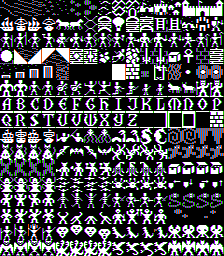
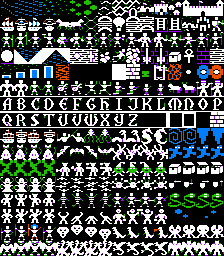
Update ripper algorithms for Apple2 Ultima4. Updates extracted sample .png files. Removes sample .pcx files. Minor tweak to Apple2 Ultima2 when EXPORT_VERTICAL_STRIP is set to 1.

Changed region(s): [[0.0, 0.0, 1.0, 1.0]]

diff --git a/apple2/ultima4/main.cpp b/apple2/ultima4/main.cpp
@@ -1,4 +1,4 @@
-
+// Extracts Ultima IV tile and text data from Apple ][ sources.
 // This program requires the SHP0 and SHP1 files extracted from the Apple II Ultima IV Boot.dsk
 // Apple II disk and file archive manager: https://a2ciderpress.com/
 
@@ -7,7 +7,7 @@
 // https://en.wikipedia.org/wiki/Apple_II_graphics
 // https://retrocomputing.stackexchange.com/questions/6271/what-determines-the-color-of-every-8th-pixel-on-the-apple-ii
 // https://www.xtof.info/hires-graphics-apple-ii.html
-
+// Gil Megidish's pixel rendering algorithm
 
 #define ALLEGRO_NO_MAGIC_MAIN
 #define ALLEGRO_STATICLINK 1
@@ -64,19 +64,55 @@ enum colorType
 int colorTable[6];
 
 
-void WriteColorForByte( BITMAP* backBuffer, int32_t x, int32_t y, char value, bool useGreenViolet )
+// From Gil Megidish:
+// The algorithm is this: for any given pixel at x, if x is 1 and any of( x - 1 ), ( x + 1 ) are 1s, then pixel at x is
+// white. if x is 0 and the two adjacent are also zero, then pixel at x is black. Now it's tricky. If x is 1 and both
+// adjacent pixels are 0, then pixel at x is green/purple (if odd or even), there's also blue / orange for second
+// palette. If x is 0, and both adjacent are 1, then the previous algorithm also catches. Sum it up, color at pixel x
+// depends on the two adjacent pixels, the MSB of the byte being rendered, and if this pixel is odd / even.
+
+void Draw( BITMAP* buffer, uint32_t x, uint32_t y, uint8_t value, bool lastBitOn, bool firstColorGroup, bool odd )
 {
   colorType color{ Black };
 
-  switch( value )
+  if( ( value & 0x1 ) == 1 )
   {
-    case 0x0: color = Black; break;
-    case 0x1: color = useGreenViolet ? Green : Orange; break;
-    case 0x2: color = useGreenViolet ? Violet : Blue; break;
-    case 0x3: color = White; break;
+    if( lastBitOn || ( ( value >> 1 ) & 0x1 ) )
+    {
+      color = White;
+    }
+    else if( !lastBitOn && ( ( ( value >> 1 ) & 0x1 ) == 0 ) )
+    {
+      if( odd )
+      {
+        color = firstColorGroup ? Green : Orange;
+      }
+      else
+      {
+        color = firstColorGroup ? Violet : Blue;
+      }
+    }
+  }
+  else
+  {
+    if( !lastBitOn && ( ( ( value >> 1 ) & 0x1 ) == 0 ) )
+    {
+      color = Black;
+    }
+    if( lastBitOn && ( ( value >> 1 ) & 0x1 ) )
+    {
+      if( odd )
+      {
+        color = firstColorGroup ? Violet : Blue;
+      }
+      else
+      {
+        color = firstColorGroup ? Green : Orange;
+      }
+    }
   }
 
-  putpixel( backBuffer, x, y, colorTable[color] );
+  putpixel( buffer, x, y, colorTable[color] );
 }
 
 
@@ -126,44 +162,44 @@ int32_t main()
   }
 
   // Get file size (note that the first file was opened with ios::ate so the size can be fetched)
-  int32_t numBytes{ static_cast<int32_t>( infile1.tellg() ) };
+  uint32_t numBytes{ static_cast<uint32_t>( infile1.tellg() ) };
 
   // Reset to the beginning
   infile1.seekg( 0, std::ios::beg );
 
-  int32_t x{ 0 };
-  int32_t y{ 0 };
+  uint32_t x{ 0 };
+  uint32_t y{ 0 };
 
-  int32_t currentBytes{ 0 };
-  int32_t lineNum{ 0 };
+  uint32_t currentBytes{ 0 };
+  uint32_t lineNum{ 0 };
 
   while( currentBytes < numBytes )
   {
-    char tileData1{ static_cast<char>( infile1.get() ) };
-    char tileData2{ static_cast<char>( infile2.get() ) };
+    const uint8_t tileData1{ static_cast<uint8_t>( infile1.get() ) };
+    const uint8_t tileData2{ static_cast<uint8_t>( infile2.get() ) };
 
     // Combine both bytes into one word, ignoring the colorGroup bits
-    int32_t tileData{ ( ( tileData2 & 0x7f ) << 7 ) | ( tileData1 & 0x7f ) };
+    const uint16_t tileData{ static_cast<uint16_t>( ( ( tileData2 & 0x7f ) << 7 ) | ( tileData1 & 0x7f ) ) };
 
     // Place the first 7 pixels
-    const int32_t colorGroup1{ ( tileData1 >> 7 ) & 0x1 };
-    WriteColorForByte( backBuffer, x++, y, ( ( tileData >> 0 ) & 0x3 ), colorGroup1 == 0 );
-    WriteColorForByte( backBuffer, x++, y, ( ( tileData >> 1 ) & 0x3 ), colorGroup1 == 0 );
-    WriteColorForByte( backBuffer, x++, y, ( ( tileData >> 2 ) & 0x3 ), colorGroup1 == 0 );
-    WriteColorForByte( backBuffer, x++, y, ( ( tileData >> 3 ) & 0x3 ), colorGroup1 == 0 );
-    WriteColorForByte( backBuffer, x++, y, ( ( tileData >> 4 ) & 0x3 ), colorGroup1 == 0 );
-    WriteColorForByte( backBuffer, x++, y, ( ( tileData >> 5 ) & 0x3 ), colorGroup1 == 0 );
-    WriteColorForByte( backBuffer, x++, y, ( ( tileData >> 6 ) & 0x3 ), colorGroup1 == 0 );
+    const bool colorGroup1{ ( ( tileData1 >> 7 ) & 0x1 ) == 0 };
+    Draw( backBuffer, x++, y, ( tileData >> 0 ) & 0x3, false, colorGroup1, true );
+    Draw( backBuffer, x++, y, ( tileData >> 1 ) & 0x3, ( tileData >> 0 ) & 0x1, colorGroup1, false );
+    Draw( backBuffer, x++, y, ( tileData >> 2 ) & 0x3, ( tileData >> 1 ) & 0x1, colorGroup1, true );
+    Draw( backBuffer, x++, y, ( tileData >> 3 ) & 0x3, ( tileData >> 2 ) & 0x1, colorGroup1, false );
+    Draw( backBuffer, x++, y, ( tileData >> 4 ) & 0x3, ( tileData >> 3 ) & 0x1, colorGroup1, true );
+    Draw( backBuffer, x++, y, ( tileData >> 5 ) & 0x3, ( tileData >> 4 ) & 0x1, colorGroup1, false );
+    Draw( backBuffer, x++, y, ( tileData >> 6 ) & 0x3, ( tileData >> 5 ) & 0x1, colorGroup1, true );
 
     // Place the next 7 pixels
-    const int32_t colorGroup2{ ( tileData2 >> 7 ) & 0x1 };
-    WriteColorForByte( backBuffer, x++, y, ( ( tileData >> 7 )  & 0x3 ), colorGroup2 == 0 );
-    WriteColorForByte( backBuffer, x++, y, ( ( tileData >> 8 )  & 0x3 ), colorGroup2 == 0 );
-    WriteColorForByte( backBuffer, x++, y, ( ( tileData >> 9 )  & 0x3 ), colorGroup2 == 0 );
-    WriteColorForByte( backBuffer, x++, y, ( ( tileData >> 10 ) & 0x3 ), colorGroup2 == 0 );
-    WriteColorForByte( backBuffer, x++, y, ( ( tileData >> 11 ) & 0x3 ), colorGroup2 == 0 );
-    WriteColorForByte( backBuffer, x++, y, ( ( tileData >> 12 ) & 0x3 ), colorGroup2 == 0 );
-    WriteColorForByte( backBuffer, x++, y, ( ( tileData >> 13 ) & 0x3 ), colorGroup2 == 0 );
+    const bool colorGroup2{ ( ( tileData2 >> 7 ) & 0x1 ) == 0 };
+    Draw( backBuffer, x++, y, ( tileData >> 7 )  & 0x3, ( tileData >> 6 )  & 0x1, colorGroup2, false );
+    Draw( backBuffer, x++, y, ( tileData >> 8 )  & 0x3, ( tileData >> 7 )  & 0x1, colorGroup2, true );
+    Draw( backBuffer, x++, y, ( tileData >> 9 )  & 0x3, ( tileData >> 8 )  & 0x1, colorGroup2, false );
+    Draw( backBuffer, x++, y, ( tileData >> 10 ) & 0x3, ( tileData >> 9 )  & 0x1, colorGroup2, true );
+    Draw( backBuffer, x++, y, ( tileData >> 11 ) & 0x3, ( tileData >> 10 ) & 0x1, colorGroup2, false );
+    Draw( backBuffer, x++, y, ( tileData >> 12 ) & 0x3, ( tileData >> 11 ) & 0x1, colorGroup2, true );
+    Draw( backBuffer, x++, y, ( tileData >> 13 ) & 0x3, ( tileData >> 12 ) & 0x1, colorGroup2, false );
 
     if( x >= TILE_BUFFER_WIDTH )
     {
@@ -186,11 +222,11 @@ int32_t main()
 
   // Optionally create a vertical strip
 #if EXPORT_VERTICAL_STRIP
-  int32_t sourceRow{ 0 };
-  int32_t sourceCol{ 0 };
+  uint32_t sourceRow{ 0 };
+  uint32_t sourceCol{ 0 };
 
   BITMAP* backBuffer2{ create_bitmap( TILE_WIDTH, TILE_HEIGHT * NUM_TILES ) };
-  for( int32_t i{ 0 }; i < NUM_TILES; ++i )
+  for( uint32_t i{ 0 }; i < NUM_TILES; ++i )
   {
     blit( backBuffer, backBuffer2, sourceCol, sourceRow, 0, i * TILE_HEIGHT, TILE_WIDTH, TILE_HEIGHT );
     sourceCol += TILE_WIDTH;
@@ -239,21 +275,21 @@ int32_t main()
 
   while( currentBytes < numBytes )
   {
-    char tileData{ static_cast<char>( infile.get() ) };
+    uint8_t tileData{ static_cast<uint8_t>( infile.get() ) };
 
-    const int32_t colorGroup1{ ( tileData >> 7 ) & 0x1 };
+    const bool colorGroup{ ( ( tileData >> 7 ) & 0x1 ) == 0 };
 
     // Remove the color group bit
     tileData &= 0x7f;
 
     // Place the 7 pixels
-    WriteColorForByte( backBuffer, x++, y, ( ( tileData >> 0 ) & 0x3 ), colorGroup1 == 0 );
-    WriteColorForByte( backBuffer, x++, y, ( ( tileData >> 1 ) & 0x3 ), colorGroup1 == 0 );
-    WriteColorForByte( backBuffer, x++, y, ( ( tileData >> 2 ) & 0x3 ), colorGroup1 == 0 );
-    WriteColorForByte( backBuffer, x++, y, ( ( tileData >> 3 ) & 0x3 ), colorGroup1 == 0 );
-    WriteColorForByte( backBuffer, x++, y, ( ( tileData >> 4 ) & 0x3 ), colorGroup1 == 0 );
-    WriteColorForByte( backBuffer, x++, y, ( ( tileData >> 5 ) & 0x3 ), colorGroup1 == 0 );
-    WriteColorForByte( backBuffer, x++, y, ( ( tileData >> 6 ) & 0x3 ), colorGroup1 == 0 );
+    Draw( backBuffer, x++, y, ( ( tileData >> 0 ) & 0x3 ), false, colorGroup, true );
+    Draw( backBuffer, x++, y, ( ( tileData >> 1 ) & 0x3 ), ( tileData >> 0 ) & 0x1, colorGroup, false );
+    Draw( backBuffer, x++, y, ( ( tileData >> 2 ) & 0x3 ), ( tileData >> 1 ) & 0x1, colorGroup, true );
+    Draw( backBuffer, x++, y, ( ( tileData >> 3 ) & 0x3 ), ( tileData >> 2 ) & 0x1, colorGroup, false );
+    Draw( backBuffer, x++, y, ( ( tileData >> 4 ) & 0x3 ), ( tileData >> 3 ) & 0x1, colorGroup, true );
+    Draw( backBuffer, x++, y, ( ( tileData >> 5 ) & 0x3 ), ( tileData >> 4 ) & 0x1, colorGroup, false );
+    Draw( backBuffer, x++, y, ( ( tileData >> 6 ) & 0x3 ), ( tileData >> 5 ) & 0x1, colorGroup, true );
 
     if( x >= CHAR_BUFFER_WIDTH )
     {

diff --git a/apple2/ultima2/main.cpp b/apple2/ultima2/main.cpp
@@ -200,11 +200,11 @@ int32_t main()
 
   // Optionally create a vertical strip
 #if EXPORT_VERTICAL_STRIP
-  int32_t sourceRow{ 0 };
-  int32_t sourceCol{ 0 };
+  uint32_t sourceRow{ 0 };
+  uint32_t sourceCol{ 0 };
 
   BITMAP* backBuffer2{ create_bitmap( TILE_WIDTH, TILE_HEIGHT * NUM_TILES ) };
-  for( int32_t i{ 0 }; i < NUM_TILES; ++i )
+  for( uint32_t i{ 0 }; i < NUM_TILES; ++i )
   {
     blit( backBuffer, backBuffer2, sourceCol, sourceRow, 0, i * TILE_HEIGHT, TILE_WIDTH, TILE_HEIGHT );
     sourceCol += TILE_WIDTH;
